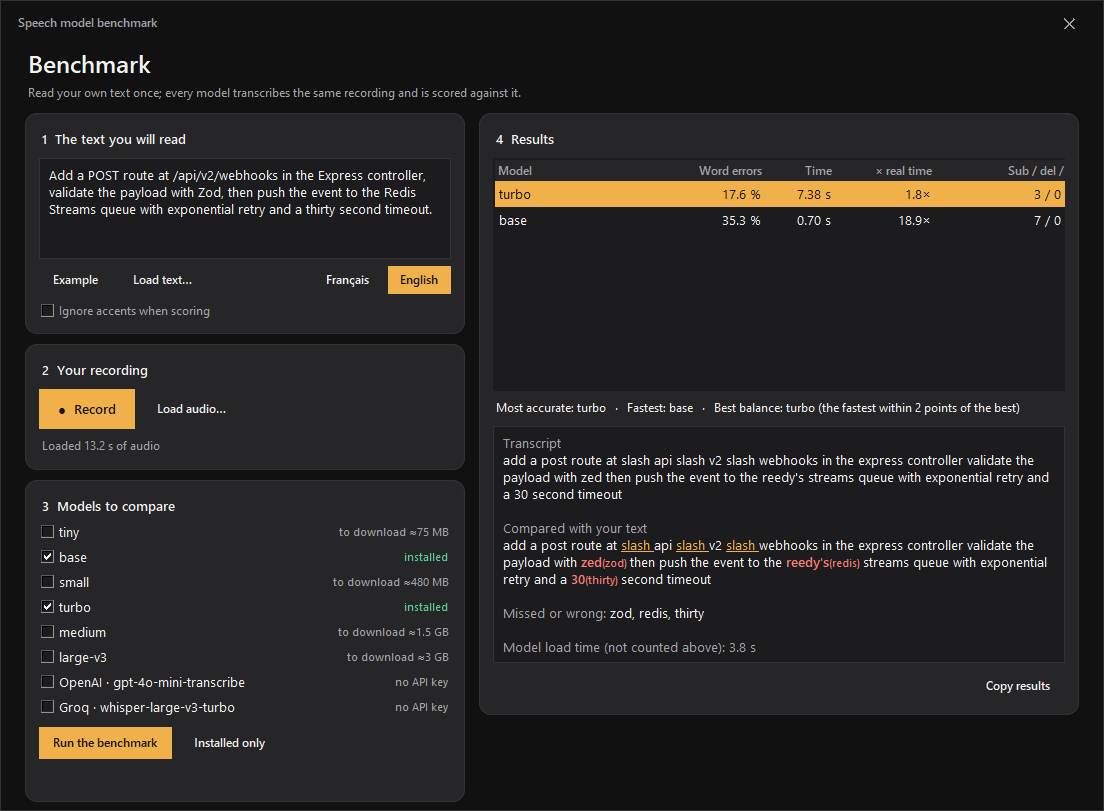
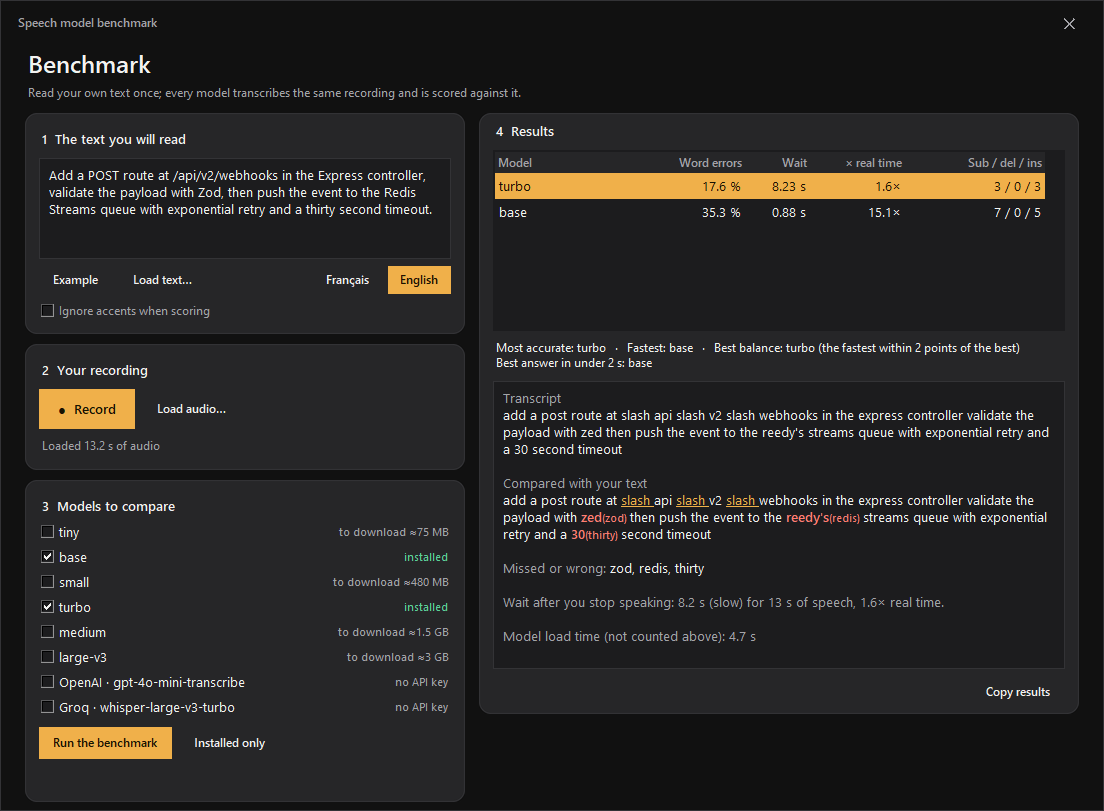
Benchmark: say what the wait means and recommend the best answer under 2 s; greedy decoding on the GPU server
The results now show the wait after you stop speaking with a plain verdict, and a fourth pick: the most accurate model that answers in under two seconds. The GPU server starts with beam size 1, best-of 1 and no temperature fallback when the build supports those flags.

diff --git a/benchmark.py b/benchmark.py
@@ -346,9 +346,9 @@ class Window:
                         font=(rover.FONT_SEMIBOLD, 9))
         style.map("Bench.Treeview.Heading", background=[("active", theme["card"])])
         columns = ("model", "wer", "time", "speed", "errors")
-        self.table = ttk.Treeview(inner, columns=columns, show="headings", height=8, style="Bench.Treeview", selectmode="browse")
-        for key, caption, width, anchor in (("model", tr("Model"), 170, "w"), ("wer", tr("Word errors"), 100, "e"), ("time", tr("Time"), 70, "e"),
-                                            ("speed", tr("× real time"), 100, "e"), ("errors", tr("Sub / del / ins"), 150, "e")):
+        self.table = ttk.Treeview(inner, columns=columns, show="headings", height=6, style="Bench.Treeview", selectmode="browse")
+        for key, caption, width, anchor in (("model", tr("Model"), 150, "w"), ("wer", tr("Word errors"), 100, "e"), ("time", tr("Wait"), 65, "e"),
+                                            ("speed", tr("× real time"), 95, "e"), ("errors", tr("Sub / del / ins"), 140, "e")):
             self.table.heading(key, text=caption, anchor=anchor)
             self.table.column(key, width=width, anchor=anchor, stretch=False)
         self.table.pack(fill="x", pady=(8, 6))
@@ -356,7 +356,7 @@ class Window:
         self.summary = tk.Label(inner, text=tr("Run the benchmark to see which model to keep."), bg=theme["card"], fg=theme["sec"],
                                 font=(rover.FONT_REGULAR, 9), anchor="w", justify="left", wraplength=560)
         self.summary.pack(fill="x")
-        self.detail = tk.Text(inner, width=70, height=13, wrap="word", relief="flat", bg=theme["panel"], fg=theme["text"], highlightthickness=1,
+        self.detail = tk.Text(inner, width=70, height=16, wrap="word", relief="flat", bg=theme["panel"], fg=theme["text"], highlightthickness=1,
                               highlightbackground=theme["border"], font=(rover.FONT_REGULAR, 10), padx=8, pady=6, state="disabled")
         self.detail.tag_configure("bad", foreground=theme["err"], font=(rover.FONT_SEMIBOLD, 10))
         self.detail.tag_configure("expected", foreground=theme["err"], font=(rover.FONT_REGULAR, 8))
@@ -477,8 +477,11 @@ class Window:
             self.table.move(result["id"], "", position)
         pick = scoring.recommend([{"name": r["name"], "wer": r["wer"], "seconds": r["seconds"]} for r in self.results.values()])
         if pick:
-            self.summary.configure(text=tr("Most accurate: {a}   ·   Fastest: {s}   ·   Best balance: {b} (the fastest within 2 points of the best)")
-                                   .format(a=pick["accuracy"], s=pick["speed"], b=pick["balanced"]), fg=self.theme["text"])
+            lines = [tr("Most accurate: {a}   ·   Fastest: {s}   ·   Best balance: {b} (the fastest within 2 points of the best)")
+                     .format(a=pick["accuracy"], s=pick["speed"], b=pick["balanced"])]
+            lines.append(tr("Best answer in under 2 s: {m}").format(m=pick["snappy"]) if "snappy" in pick
+                         else tr("No model answered in under 2 s: try a smaller model, the GPU or a service."))
+            self.summary.configure(text="\n".join(lines), fg=self.theme["text"])
         self.status.configure(text=tr("Done."), fg=self.theme["ok"])
         if ordered:
             self.table.selection_set(ordered[0]["id"])
@@ -512,6 +515,11 @@ class Window:
             if missed:
                 box.insert("end", "\n\n" + tr("Missed or wrong") + ": ", "dim")
                 box.insert("end", ", ".join(dict.fromkeys(missed)))
+            total = len(self.audio) / SAMPLE_RATE
+            wait = result["seconds"]
+            verdict = (tr("feels instant") if wait < 1 else tr("quick") if wait <= 2.5 else tr("noticeable pause") if wait <= 5 else tr("slow"))
+            box.insert("end", "\n\n" + tr("Wait after you stop speaking: {wait} s ({verdict}) for {speech} s of speech, {speed}× real time.")
+                       .format(wait=f"{wait:.1f}", verdict=verdict, speech=f"{total:.0f}", speed=f"{total / wait:.1f}"), "dim")
             if result["load"] > 0.5:
                 box.insert("end", "\n\n" + tr("Model load time (not counted above): {seconds} s").format(seconds=f"{result['load']:.1f}"), "dim")
         box.configure(state="disabled")

diff --git a/accel.py b/accel.py
@@ -172,6 +172,29 @@ def _kill_with_us(process: subprocess.Popen) -> None:
 _JOBS: list = []
 
 
+_help_text: str | None = None
+
+
+def fast_flags() -> list[str]:
+    """Greedy decoding and no temperature fallback make dictation several times quicker; only flags this build knows are used."""
+    global _help_text
+    if _help_text is None:
+        try:
+            completed = subprocess.run([str(runtime_exe()), "--help"], capture_output=True, text=True, errors="replace", timeout=15,
+                                       creationflags=getattr(subprocess, "CREATE_NO_WINDOW", 0))
+            _help_text = completed.stdout + completed.stderr
+        except (OSError, subprocess.SubprocessError):
+            _help_text = ""
+    flags: list[str] = []
+    if "--beam-size" in _help_text:
+        flags += ["--beam-size", "1"]
+    if "--best-of" in _help_text:
+        flags += ["--best-of", "1"]
+    if "--no-fallback" in _help_text:
+        flags += ["--no-fallback"]
+    return flags
+
+
 class Server:
     """whisper-server.exe kept running with one model loaded on the GPU, so each dictation only pays for inference."""
 
@@ -197,7 +220,7 @@ class Server:
                 probe.bind(("127.0.0.1", 0))
                 self.port = probe.getsockname()[1]
             self.process = subprocess.Popen(
-                [str(runtime_exe()), "-m", str(model_path(model)), "--host", "127.0.0.1", "--port", str(self.port), "-t", "4"],
+                [str(runtime_exe()), "-m", str(model_path(model)), "--host", "127.0.0.1", "--port", str(self.port), "-t", "4", *fast_flags()],
                 cwd=str(RUNTIME_DIR), stdout=subprocess.DEVNULL, stderr=subprocess.DEVNULL,
                 creationflags=getattr(subprocess, "CREATE_NO_WINDOW", 0))
             try:
@@ -222,7 +245,8 @@ class Server:
         try:
             response = requests.post(f"http://127.0.0.1:{self.port}/inference",
                                      files={"file": ("dictation.wav", transcribe.wav_bytes(audio), "audio/wav")},
-                                     data={"response_format": "json", "language": language, "temperature": "0.0"}, timeout=(5, 90))
+                                     data={"response_format": "json", "language": language, "temperature": "0.0", "temperature_inc": "0.0"},
+                                     timeout=(5, 90))
             response.raise_for_status()
             return str(response.json().get("text", "")).strip()
         except (requests.RequestException, ValueError) as exc:

diff --git a/scoring.py b/scoring.py
@@ -74,12 +74,17 @@ def score(reference: str, hypothesis: str, strip_accents: bool = False) -> Score
                  sum(op == "ins" for op, *_ in ops), ops)
 
 
-def recommend(results: list[dict], tolerance: float = 0.02) -> dict:
-    """Pick the most accurate, the fastest, and the fastest one that is within `tolerance` of the most accurate."""
+def recommend(results: list[dict], tolerance: float = 0.02, snappy_seconds: float = 2.0) -> dict:
+    """Pick the most accurate, the fastest, the fastest within `tolerance` of the most accurate,
+    and the most accurate one that still answers within `snappy_seconds` ('snappy', absent when none does)."""
     valid = [r for r in results if r.get("wer") is not None and r.get("seconds") is not None]
     if not valid:
         return {}
     best = min(valid, key=lambda r: (r["wer"], r["seconds"]))
     fastest = min(valid, key=lambda r: (r["seconds"], r["wer"]))
     balanced = min((r for r in valid if r["wer"] <= best["wer"] + tolerance), key=lambda r: r["seconds"])
-    return {"accuracy": best["name"], "speed": fastest["name"], "balanced": balanced["name"]}
+    quick = [r for r in valid if r["seconds"] <= snappy_seconds]
+    picks = {"accuracy": best["name"], "speed": fastest["name"], "balanced": balanced["name"]}
+    if quick:
+        picks["snappy"] = min(quick, key=lambda r: (r["wer"], r["seconds"]))["name"]
+    return picks

diff --git a/i18n.py b/i18n.py
@@ -7,6 +7,14 @@ import ctypes
 LANG = "en"
 
 FR = {
+    "Wait": "Attente",
+    "Best answer in under 2 s: {m}": "Meilleure réponse en moins de 2 s : {m}",
+    "No model answered in under 2 s: try a smaller model, the GPU or a service.": "Aucun modèle n’a répondu en moins de 2 s : essayez un modèle plus petit, le GPU ou un service.",
+    "feels instant": "quasi instantané",
+    "quick": "rapide",
+    "noticeable pause": "pause perceptible",
+    "slow": "lent",
+    "Wait after you stop speaking: {wait} s ({verdict}) for {speech} s of speech, {speed}× real time.": "Attente après la fin de la parole : {wait} s ({verdict}) pour {speech} s de parole, soit {speed}× le temps réel.",
     "CPU": "Processeur",
     "No graphics card found": "Aucune carte graphique trouvée",
     "Graphics driver with Vulkan support": "Pilote graphique compatible Vulkan",
@@ -58,7 +66,7 @@ FR = {
     "Word errors": "Mots erronés",
     "Time": "Temps",
     "× real time": "× temps réel",
-    "Sub / del / ins": "Subst. / suppr. / ajouts",
+    "Sub / del / ins": "Sub. / sup. / ajouts",
     "Run the benchmark to see which model to keep.": "Lancez le benchmark pour voir quel modèle garder.",
     "Loaded {seconds} s of audio": "{seconds} s d’audio chargées",
     "Recorded {seconds} s": "{seconds} s enregistrées",

diff --git a/tests/unit/test_scoring.py b/tests/unit/test_scoring.py
@@ -43,5 +43,8 @@ def test_recommendation_prefers_the_fastest_model_close_to_the_best():
                {"name": "small", "wer": 0.05, "seconds": 3.0}, {"name": "large", "wer": 0.04, "seconds": 12.0},
                {"name": "broken", "wer": None, "seconds": None}]
     pick = scoring.recommend(results)
-    assert pick == {"accuracy": "large", "speed": "tiny", "balanced": "base"}
+    assert pick == {"accuracy": "large", "speed": "tiny", "balanced": "base", "snappy": "base"}
+    slow_only = scoring.recommend([{"name": "turbo", "wer": 0.1, "seconds": 7.0}])
+    assert "snappy" not in slow_only and slow_only["accuracy"] == "turbo"
+    assert scoring.recommend(results, snappy_seconds=0.6)["snappy"] == "tiny"
     assert scoring.recommend([]) == {}
